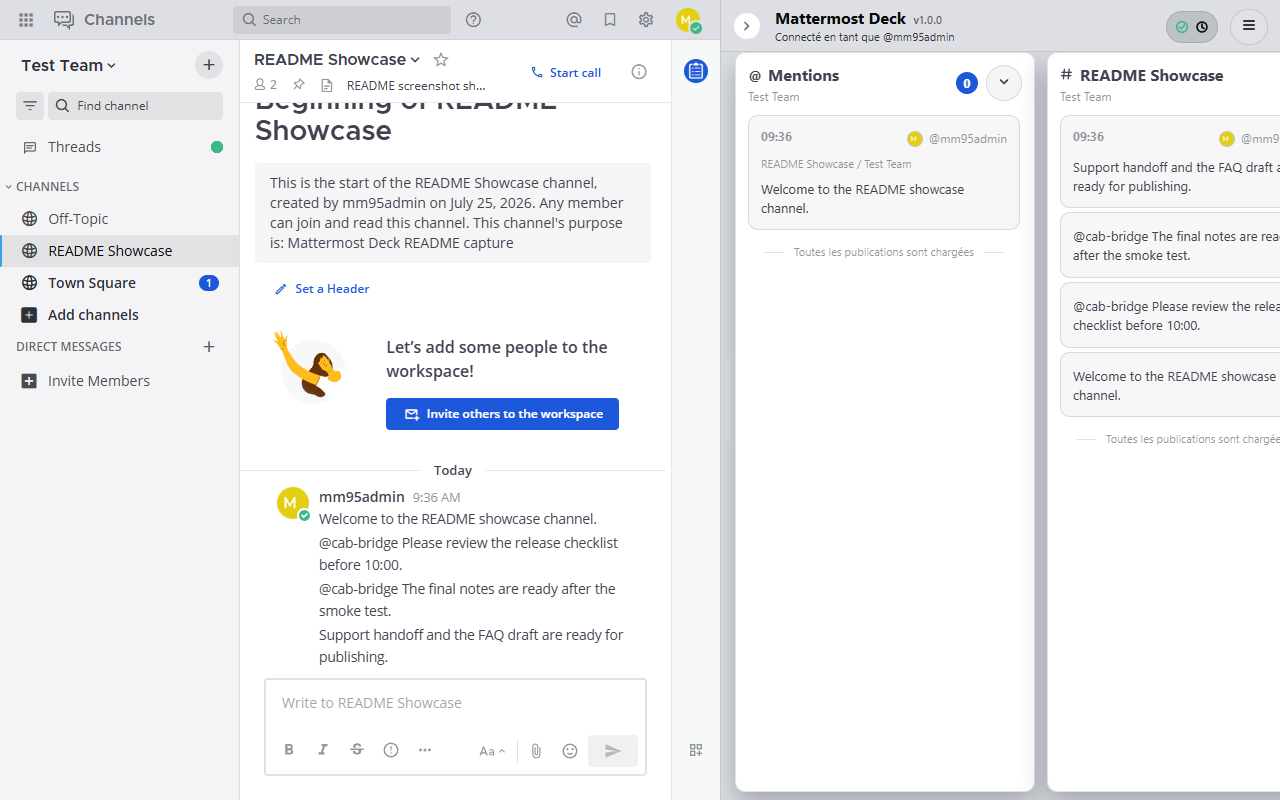
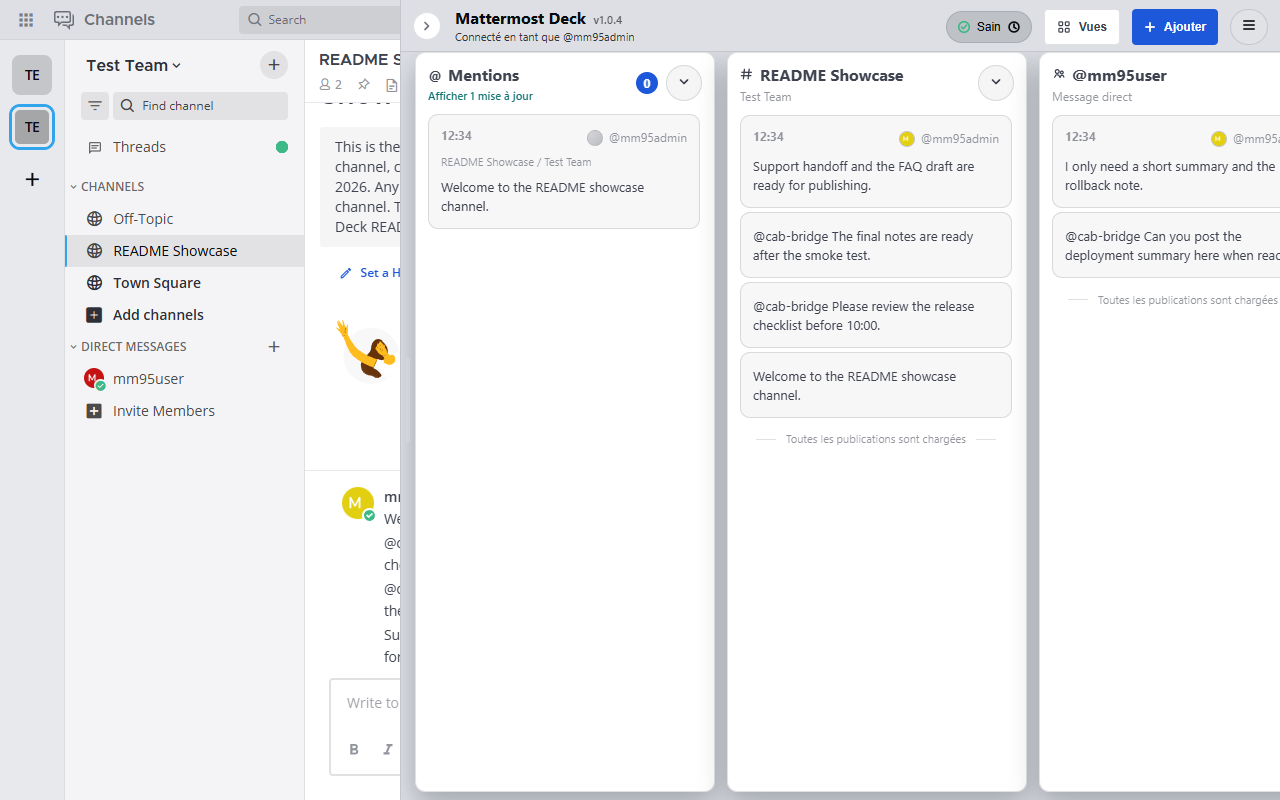
chore(release): finalize v1.0.4 release assets

diff --git a/e2e/options-profiles.spec.ts b/e2e/options-profiles.spec.ts
@@ -268,7 +268,7 @@ test("1.0.4 release notice stays aligned, wraps actions, and explains the reliab
     const releaseDialog = page.getByRole("dialog", { name: "v1.0.4" });
     await expect(releaseDialog).toBeVisible();
     await expect(releaseDialog.locator(".options-modal-section")).toHaveCount(3);
-    await expect(releaseDialog).toContainText("200件×最大5ページ");
+    await expect(releaseDialog).toContainText("既読位置・履歴終端・中断・一致投稿500件");
     await expect(releaseDialog).toContainText("旧runtime");
     for (const supportedVersion of ["9.5.11", "10.11.22", "11.8.2"]) {
       await expect(releaseDialog).toContainText(supportedVersion);

diff --git a/src/ui/App.tsx b/src/ui/App.tsx
@@ -5446,7 +5446,7 @@ function MentionsColumn({
               }
               // Filter before applying the 500-row display bound. Capping raw
               // channel posts first could hide a mention behind ordinary
-              // traffic even within the initial 1,000-post scan.
+              // traffic when the read marker is more than 1,000 posts back.
               const candidatePosts = mergePosts(
                 batchOrderedPosts.filter(
                   (post) => post.create_at > readMarker,

diff --git a/CHANGELOG.md b/CHANGELOG.md
@@ -18,7 +18,7 @@ and this version adheres to [Semantic Versioning](https://semver.org/spec/v2.0.0
 ### Changed
 
 - Keep the current mention list stable while multi-team refreshes run, show progress in the fixed column header, and let users apply new, edited, or attachment-changing results from an update-count button while read and deleted rows still clear promptly.
-- Bound channel mention history to five 200-post pages without expanding complete reply threads, while retaining selected reply roots and update/edit markers inside the caller's result limit.
+- Scan channel mention history incrementally in 200-post pages until the read marker, channel-history end, cancellation, or 500 matched posts, without expanding complete reply threads, while retaining selected reply roots and update/edit markers inside the caller's result limit.
 - Add 20-second network and 30-second queue-wait timeouts, abort requests when the configured server changes, and debounce realtime mention bursts into one bounded reconciliation.
 - Cleanly dispose the previous content runtime, including its React root, subscriptions, observers, timers, route listeners, request, and history wrappers, before an updated bundle is injected; older builds fall back to a one-time tab reload.
 - Honor each user's channel-wide mention notification preference in realtime matching, preserve direct and group messages, and reconcile edits and deletions without globally reloading Deck.

diff --git a/docs/chrome-web-store-submission.md b/docs/chrome-web-store-submission.md
@@ -18,7 +18,7 @@ Mattermost Deck adds monitoring-oriented panes to the right side of Mattermost W
 
 ## v1.0.4 release notes
 
-- Bounded each channel mention scan to five 200-post pages, added network and queue timeouts, and cancelled requests when the configured server changes so a stalled or very large server cannot grow work without limit
+- Scans channel mention history incrementally in 200-post pages until the read marker, channel-history end, cancellation, or 500 matched posts; network and queue timeouts plus server-change cancellation stop stalled work while keeping retained results bounded
 - Reconciles bursts of realtime mention events with one bounded refresh, applies edits and deletions immediately, and honors each user's channel-wide mention preference
 - Hands off cleanly from the previous content runtime after an extension update, removing old listeners, observers, timers, and React roots before the new bundle starts
 - Improved keyboard and screen-reader behavior for Deck dialogs, menus, retry states, Settings comboboxes, sortable performance tables, and validation errors in all supported languages

diff --git a/SECURITY.md b/SECURITY.md
@@ -14,7 +14,7 @@ We take security seriously. The following versions of Mattermost Deck are curren
 If you discover a security vulnerability in Mattermost Deck, please report it to us as follows:
 
 1. **Do not** create a public GitHub issue for the vulnerability.
-2. Email us at [mail@ruhenheim.org] with details of the vulnerability.
+2. Email us at [mail@ruhenheim.org](mailto:mail@ruhenheim.org) with details of the vulnerability.
 3. We will acknowledge receipt within 48 hours and provide a more detailed response within 7 days indicating our next steps.
 4. We will keep you informed about our progress throughout the process of fixing the vulnerability.
 
